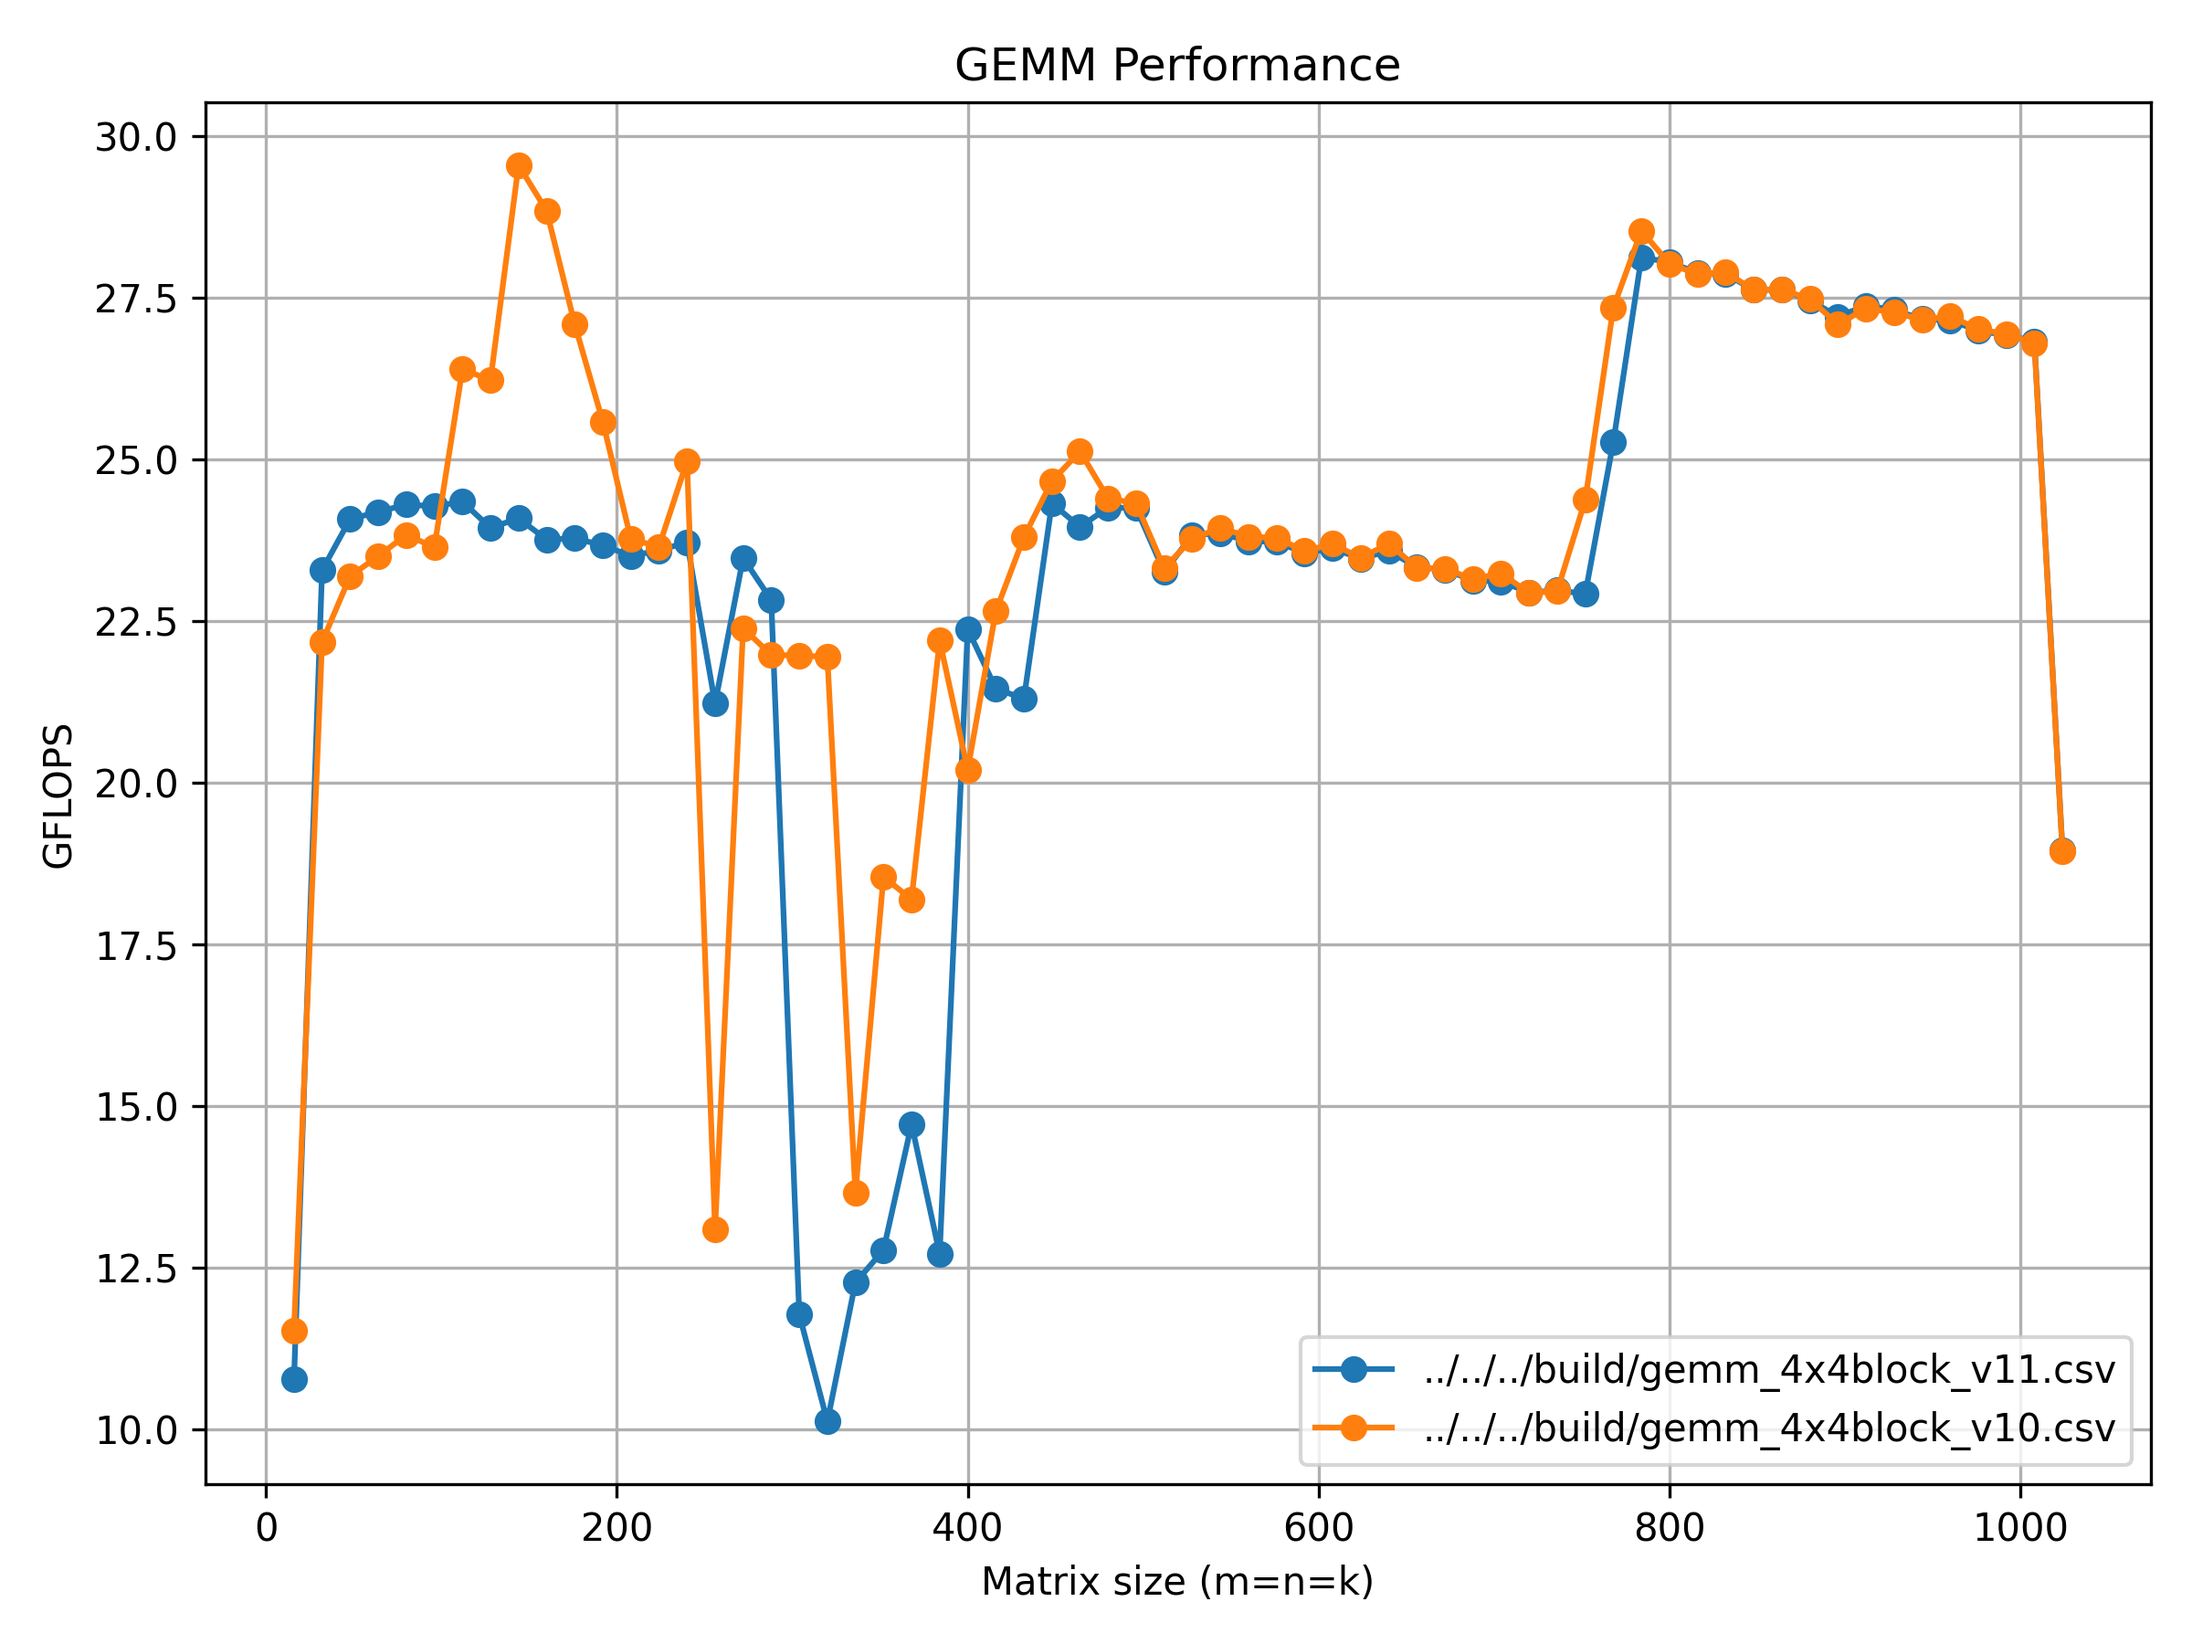
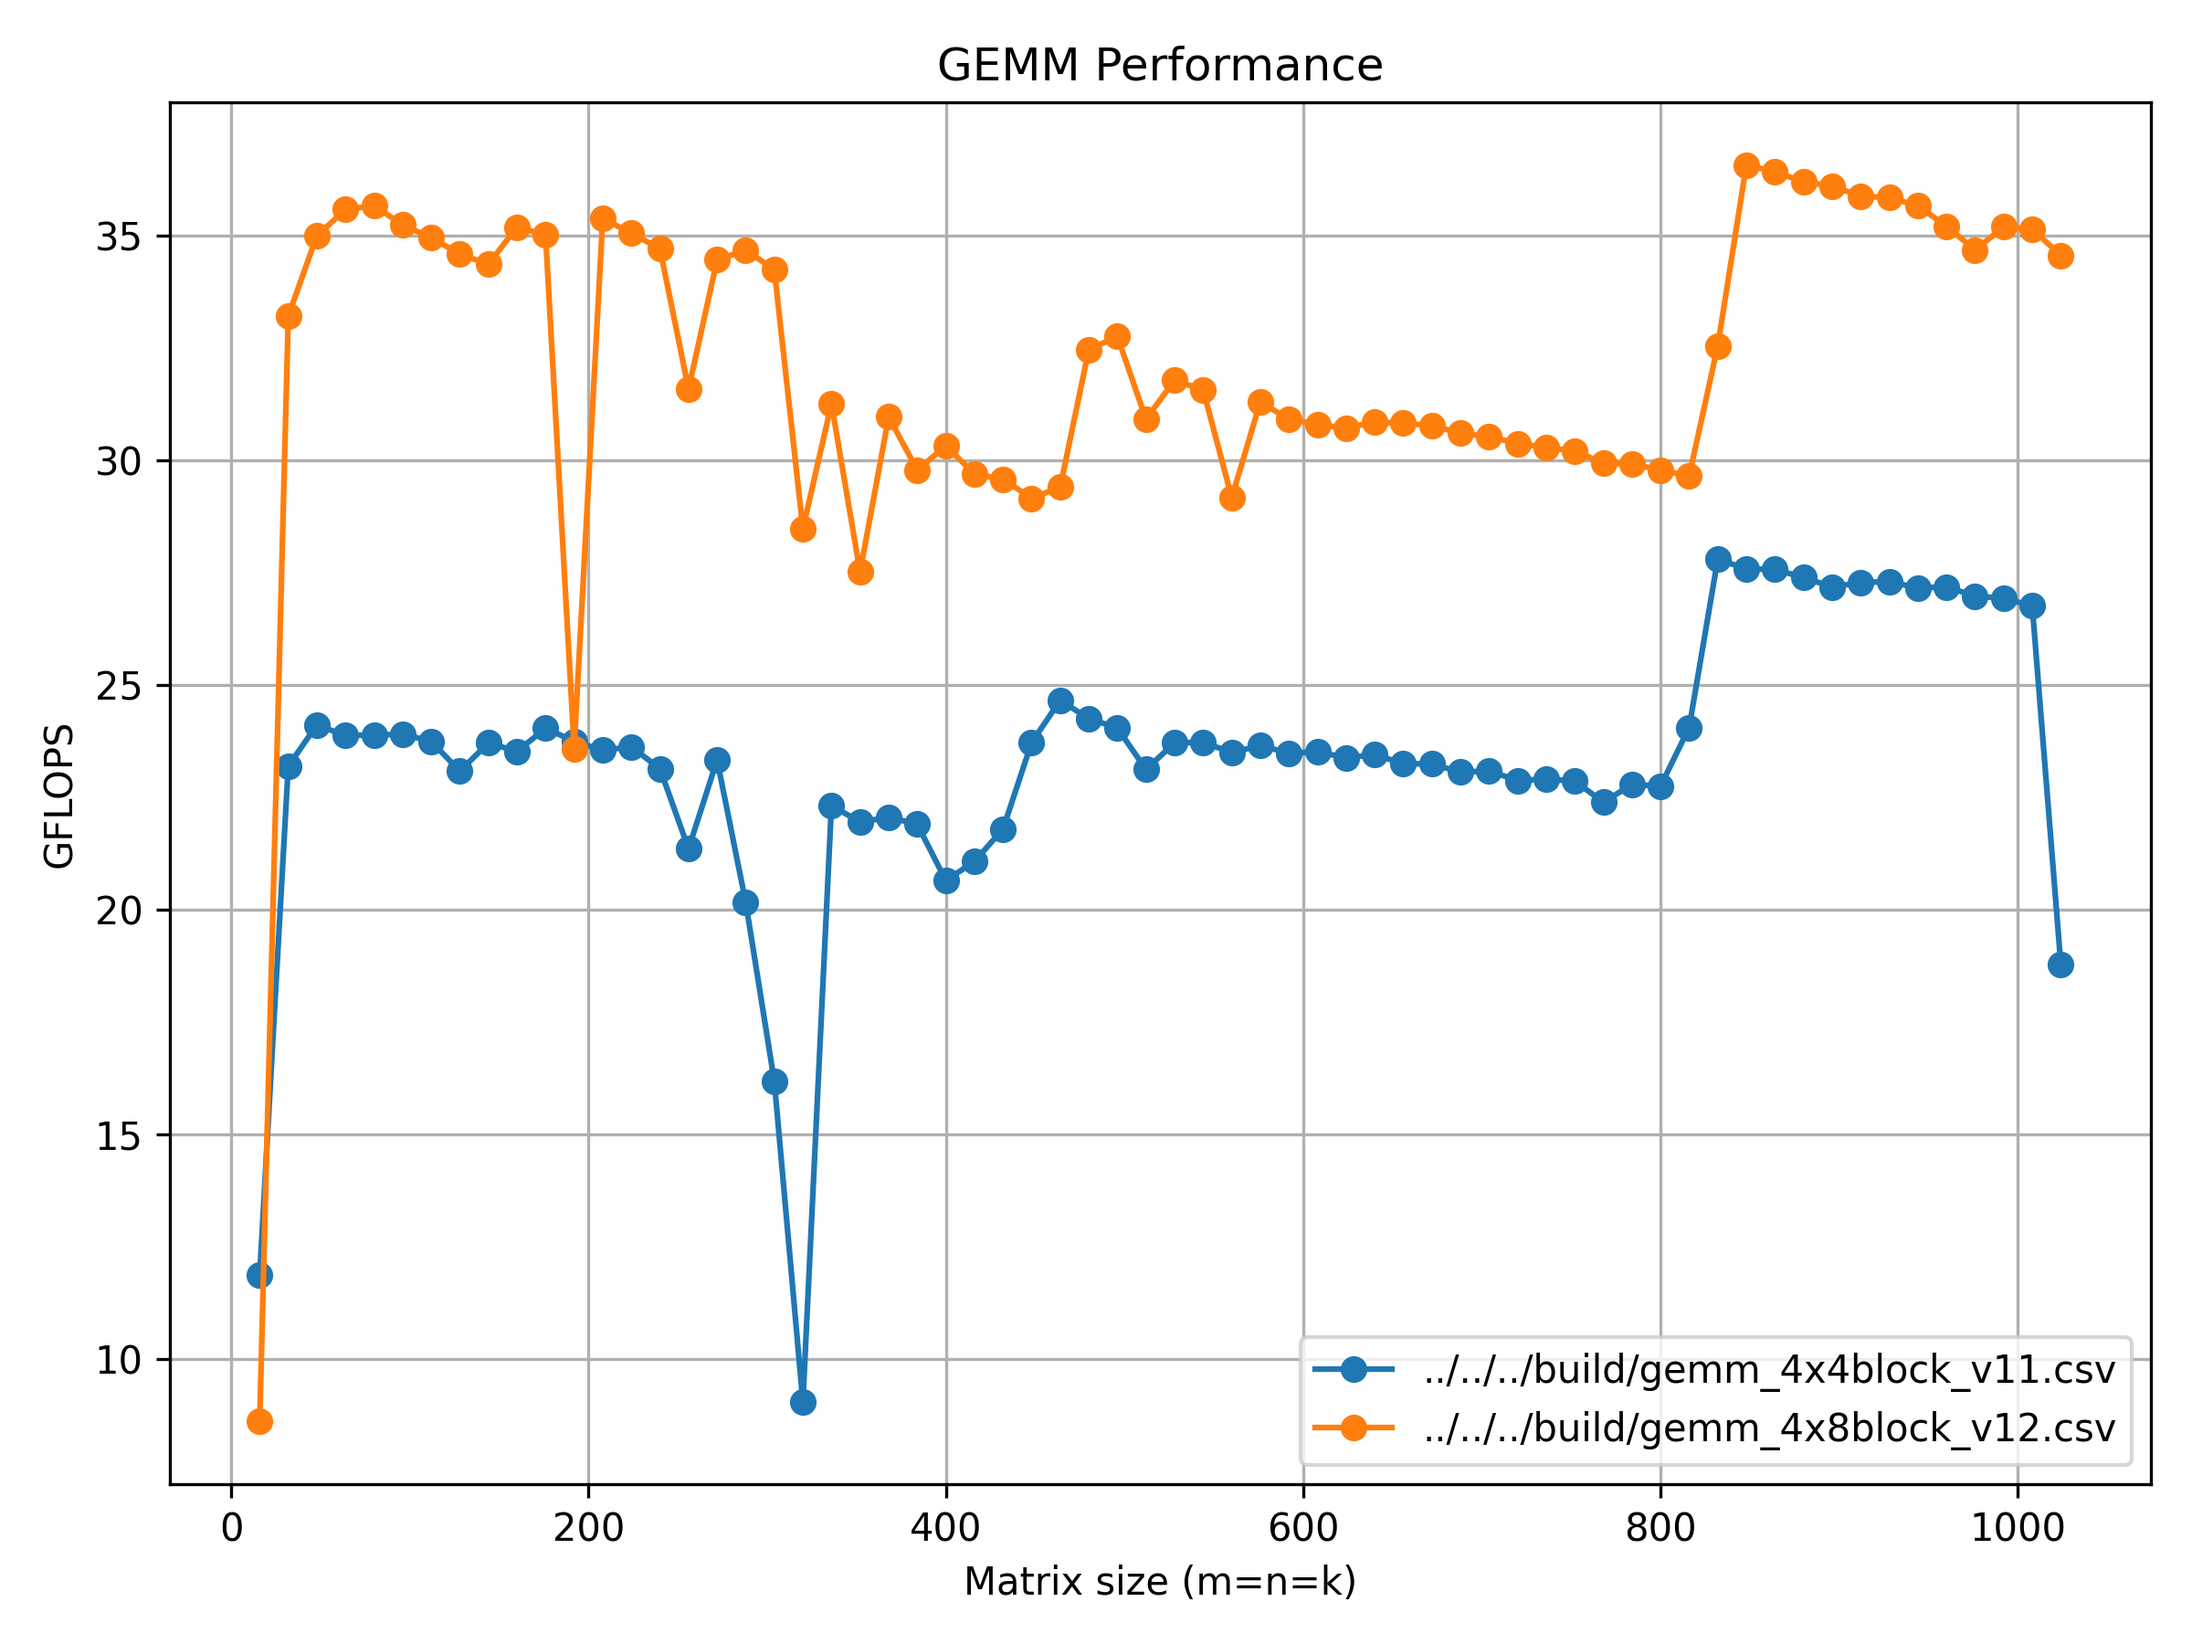
add gemm 4x8block avx avx2 optimization

diff --git a/src/cpu/gemm/gemm_4x8block_v12.cpp b/src/cpu/gemm/gemm_4x8block_v12.cpp
@@ -1,0 +1,74 @@
+#include "gemm.h"
+#include <immintrin.h>
+#include <xmmintrin.h>
+
+typedef union {
+  __m256 v;
+  float d[8];
+} vec_t;
+
+static void addDot4x4(int k, float *A, int lda, float *B, int ldb, float *C,
+                      int ldc) {
+  vec_t c0_vec, c1_vec, c2_vec, c3_vec;
+  c0_vec.v = _mm256_load_ps(&C(0, 0));
+  c1_vec.v = _mm256_load_ps(&C(1, 0));
+  c2_vec.v = _mm256_load_ps(&C(2, 0));
+  c3_vec.v = _mm256_load_ps(&C(3, 0));
+
+  vec_t a0_vec, a1_vec, a2_vec, a3_vec;
+  a0_vec.v = _mm256_set1_ps(0.00f);
+  a1_vec.v = _mm256_set1_ps(0.00f);
+  a2_vec.v = _mm256_set1_ps(0.00f);
+  a3_vec.v = _mm256_set1_ps(0.00f);
+
+  float *bp0_ptr = &B(0, 0);
+  float *bp1_ptr = &B(0, 1);
+  float *bp2_ptr = &B(0, 2);
+  float *bp3_ptr = &B(0, 3);
+  float *bp4_ptr = &B(0, 4);
+  float *bp5_ptr = &B(0, 5);
+  float *bp6_ptr = &B(0, 6);
+  float *bp7_ptr = &B(0, 7);
+
+  vec_t b_vec;
+  b_vec.v = _mm256_set1_ps(0.00f);
+
+  for (int p = 0; p < k; ++p) {
+    a0_vec.v = _mm256_set1_ps(A(0, p));
+    a1_vec.v = _mm256_set1_ps(A(1, p));
+    a2_vec.v = _mm256_set1_ps(A(2, p));
+    a3_vec.v = _mm256_set1_ps(A(3, p));
+
+    b_vec.v = _mm256_set_ps(*bp7_ptr, *bp6_ptr, *bp5_ptr, *bp4_ptr, *bp3_ptr,
+                            *bp2_ptr, *bp1_ptr, *bp0_ptr);
+
+    c0_vec.v = _mm256_fmadd_ps(a0_vec.v, b_vec.v, c0_vec.v);
+    c1_vec.v = _mm256_fmadd_ps(a1_vec.v, b_vec.v, c1_vec.v);
+    c2_vec.v = _mm256_fmadd_ps(a2_vec.v, b_vec.v, c2_vec.v);
+    c3_vec.v = _mm256_fmadd_ps(a3_vec.v, b_vec.v, c3_vec.v);
+
+    bp0_ptr += ldb;
+    bp1_ptr += ldb;
+    bp2_ptr += ldb;
+    bp3_ptr += ldb;
+    bp4_ptr += ldb;
+    bp5_ptr += ldb;
+    bp6_ptr += ldb;
+    bp7_ptr += ldb;
+  }
+
+  _mm256_store_ps(&C(0, 0), c0_vec.v);
+  _mm256_store_ps(&C(1, 0), c1_vec.v);
+  _mm256_store_ps(&C(2, 0), c2_vec.v);
+  _mm256_store_ps(&C(3, 0), c3_vec.v);
+}
+
+void gemm_4x8block_v12(float *A, float *B, float *C, int m, int n, int k) {
+  int lda = k, ldb = n, ldc = n;
+  const int MR = 4, NR = 8;
+  for (int i = 0; i < m; i += MR) {
+    for (int j = 0; j < n; j += NR) {
+      addDot4x4(k, &A(i, 0), lda, &B(0, j), ldb, &C(i, j), ldc);
+    }
+  }
+}

diff --git a/src/cpu/gemm/gemm_test.cpp b/src/cpu/gemm/gemm_test.cpp
@@ -29,26 +29,34 @@ std::map<std::string, gemm_func> gemm_map = {
     {"gemm_4x4block_v9", gemm_4x4block_v9},
     {"gemm_4x4block_v10", gemm_4x4block_v10},
     {"gemm_4x4block_v11", gemm_4x4block_v11},
+    {"gemm_4x8block_v12", gemm_4x8block_v12},
 };
 
 template <typename Func> void launchTest(const std::string &gemm_name, Func f) {
   const int m = 256, n = 256, k = 256;
   const float random_min = -1.0f, random_max = 1.0f;
+  const int ALIGNMENT = 32;
 
-  float *A = reinterpret_cast<float *>(std::malloc(m * k * sizeof(float)));
-  float *BLAS_A = reinterpret_cast<float *>(std::malloc(m * k * sizeof(float)));
+  float *A = reinterpret_cast<float *>(
+      std::aligned_alloc(ALIGNMENT, m * k * sizeof(float)));
+  float *BLAS_A = reinterpret_cast<float *>(
+      std::aligned_alloc(ALIGNMENT, m * k * sizeof(float)));
 
   initMatrix(A, m, k, random_min, random_max);
   std::memcpy(BLAS_A, A, m * k * sizeof(float));
 
-  float *B = reinterpret_cast<float *>(std::malloc(k * n * sizeof(float)));
-  float *BLAS_B = reinterpret_cast<float *>(std::malloc(k * n * sizeof(float)));
+  float *B = reinterpret_cast<float *>(
+      std::aligned_alloc(ALIGNMENT, k * n * sizeof(float)));
+  float *BLAS_B = reinterpret_cast<float *>(
+      std::aligned_alloc(ALIGNMENT, k * n * sizeof(float)));
 
   initMatrix(B, k, n, random_min, random_max);
   std::memcpy(BLAS_B, B, k * n * sizeof(float));
 
-  float *C = reinterpret_cast<float *>(std::malloc(m * n * sizeof(float)));
-  float *BLAS_C = reinterpret_cast<float *>(std::malloc(m * n * sizeof(float)));
+  float *C = reinterpret_cast<float *>(
+      std::aligned_alloc(ALIGNMENT, m * n * sizeof(float)));
+  float *BLAS_C = reinterpret_cast<float *>(
+      std::aligned_alloc(ALIGNMENT, m * n * sizeof(float)));
 
   initMatrix(C, m, n, random_min, random_max);
   std::memcpy(BLAS_C, C, m * n * sizeof(float));

diff --git a/src/cpu/gemm/gemm_benchmark.cpp b/src/cpu/gemm/gemm_benchmark.cpp
@@ -30,6 +30,7 @@ std::unordered_map<std::string, gemm_func> gemm_map = {
     {"gemm_4x4block_v9", gemm_4x4block_v9},
     {"gemm_4x4block_v10", gemm_4x4block_v10},
     {"gemm_4x4block_v11", gemm_4x4block_v11},
+    {"gemm_4x8block_v12", gemm_4x8block_v12},
 };
 
 double gflops(int M, int N, int K, double seconds) {
@@ -40,11 +41,13 @@ double gflops(int M, int N, int K, double seconds) {
 template <typename Func>
 void benchmark(std::ofstream &file, const std::string &name, Func f, float *A,
                float *B, float *C, int m, int n, int k) {
-  A = reinterpret_cast<float *>(std::aligned_alloc(16, m * k * sizeof(float)));
+  const int ALIGNMENT = 32;
+
+  A = reinterpret_cast<float *>(std::aligned_alloc(ALIGNMENT, m * k * sizeof(float)));
   initMatrix(A, m, k, -1.0f, 1.0f);
-  B = reinterpret_cast<float *>(std::aligned_alloc(16, k * n * sizeof(float)));
+  B = reinterpret_cast<float *>(std::aligned_alloc(ALIGNMENT, k * n * sizeof(float)));
   initMatrix(B, k, n, -1.0f, 1.0f);
-  C = reinterpret_cast<float *>(std::aligned_alloc(16, m * n * sizeof(float)));
+  C = reinterpret_cast<float *>(std::aligned_alloc(ALIGNMENT, m * n * sizeof(float)));
   initMatrix(C, m, n, -1.0f, 1.0f);
 
   auto start = std::chrono::high_resolution_clock::now();

diff --git a/src/cpu/gemm/gemm.h b/src/cpu/gemm/gemm.h
@@ -54,4 +54,6 @@ void gemm_4x4block_v10(float* A, float* B, float* C, int m, int n, int k);
 
 void gemm_4x4block_v11(float* A, float* B, float* C, int m, int n, int k);
 
+void gemm_4x8block_v12(float* A, float* B, float* C, int m, int n, int k);
+
 void gemm_blas(float *A, float *B, float *C, int m, int n, int k);
